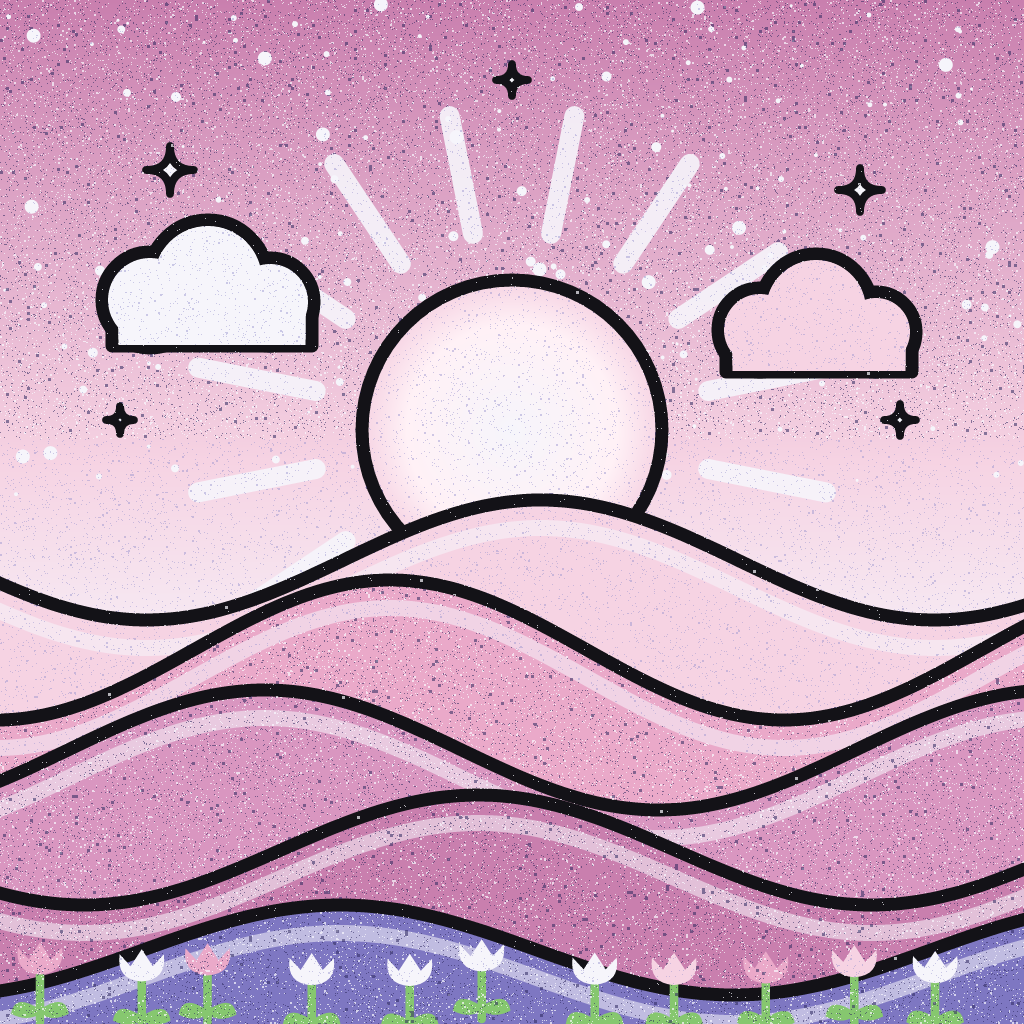
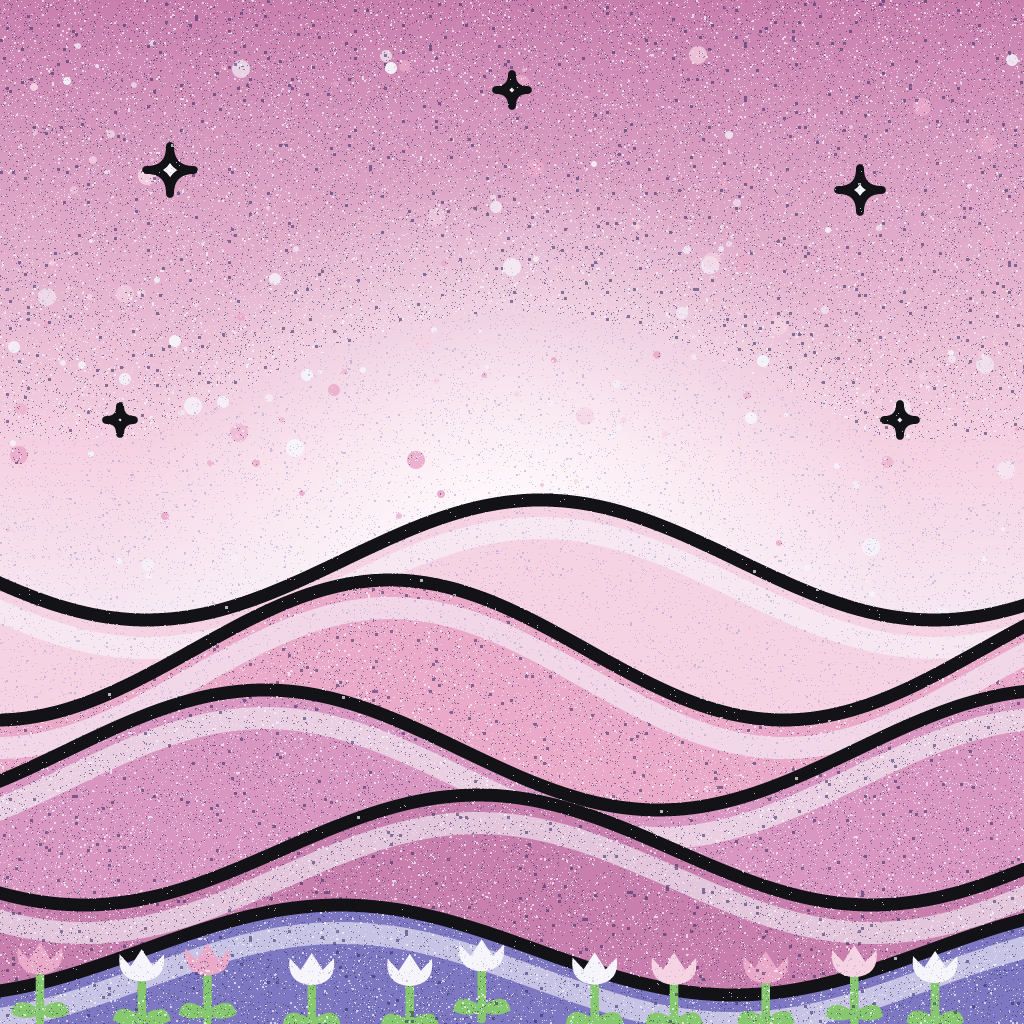
Give Tide and Pink Haze their own picture instead of another disc
Five of the eight cards had a moon or sun disc, and Velvet and Tide sat
side by side with almost the same full moon. Tide now shows a tide gauge
in the rising and ebbing water; Pink Haze loses its sun, rays and clouds
and becomes layered hills in a soft mist. The other six pictures are
byte for byte unchanged.

diff --git a/tools/images/meditation_images.py b/tools/images/meditation_images.py
@@ -127,14 +127,18 @@ b += f'<path d="M300 820 C400 800 624 800 724 820" stroke="{K}" stroke-width="{S
 b += f'<circle cx="512" cy="820" r="16" fill="{L1}" stroke="{K}" stroke-width="{SW*0.6}"/>'
 scenes["velvet"] = svg(b, defs)
 
-# 2. tide — the moon pulling curling waves
-defs = radial("g", [(0, W), (0.25, L1), (1, D)], cy="18%", r="85%")
-b = f'<rect width="1024" height="1024" fill="url(#g)"/>' + stars(160, (0, 0, 1024, 520), 12)
-b += f'<circle cx="512" cy="200" r="120" fill="{W}" stroke="{K}" stroke-width="{SW}"/>'
-b += f'<circle cx="470" cy="175" r="18" fill="{L1}"/><circle cx="555" cy="235" r="12" fill="{L1}"/>'
-for rr in (165, 215):
-    b += f'<circle cx="512" cy="200" r="{rr}" fill="none" stroke="{W}" stroke-width="7" stroke-dasharray="4 22"/>'
-bands = [(470, 40, 0.0, L1), (580, 46, 1.3, L2), (700, 52, 2.4, L3), (830, 58, 0.7, D)]
+# 2. tide — a tide gauge standing in the rising and ebbing water
+defs = linear("g", [(0, L3), (0.55, L1), (0.8, W)]) + linear("post", [(0, L2), (1, L3)], vertical=False)
+b = f'<rect width="1024" height="1024" fill="url(#g)"/>' + stars(90, (0, 0, 1024, 420), 12)
+for y in (330, 500):
+    b += f'<path d="M150 {y} L874 {y}" stroke="{W}" stroke-width="7" fill="none" stroke-dasharray="4 22" stroke-linecap="round"/>'
+b += f'<rect x="478" y="250" width="68" height="660" rx="14" fill="url(#post)" stroke="{K}" stroke-width="{SW}"/>'
+for i, y in enumerate(range(290, 600, 40)):
+    w = 34 if i % 2 == 0 else 20
+    b += f'<path d="M478 {y} L{478+w} {y}" stroke="{K}" stroke-width="6"/>'
+b += f'<path d="M690 350 L690 480 M662 380 L690 346 L718 380 M662 450 L690 484 L718 450" stroke="{K}" stroke-width="12" fill="none"/>'
+b += sparkle(300, 240, 22) + sparkle(780, 230, 24) + sparkle(200, 420, 14) + sparkle(860, 420, 16)
+bands = [(600, 40, 0.0, L1), (700, 46, 1.3, L2), (800, 52, 2.4, L3), (900, 58, 0.7, D)]
 for y, A, ph, fill in bands:
     pts = [(x, y + A * math.sin(x / 1024 * 2 * math.pi * 2 + ph)) for x in range(-20, 1050, 6)]
     d = f"M-20 1060 " + " ".join(f"L{x} {yy:.1f}" for x, yy in pts) + " L1050 1060Z"
@@ -306,22 +310,25 @@ for i in range(9):
         b += f'<path d="M{x-25} {y} L{x} {y+26} L{x+25} {y}" stroke="{L2}" stroke-width="8" fill="none"/>'
 scenes["night_rain"] = svg(b, defs)
 
-# 5. pink-haze — layered misty pink hills under a soft sun
-defs = (linear("g", [(0, P3), (0.45, P1), (0.7, W)]) + radial("sun", [(0, W), (0.7, "#fff1f6"), (1, P1)]))
-b = f'<rect width="1024" height="1024" fill="url(#g)"/>' + stars(150, (0, 0, 1024, 500), 49)
-b += rays(512, 430, 16, 200, 320, 20, W, opacity=0.9)
-b += f'<circle cx="512" cy="430" r="150" fill="url(#sun)" stroke="{K}" stroke-width="{SW}"/>'
-for sx, sy, s in [(170, 170, 24), (860, 190, 22), (512, 80, 16), (120, 420, 14), (900, 420, 16)]:
-    b += sparkle(sx, sy, s)
-b += cloud([(150, 300, 48), (208, 280, 60), (270, 302, 44)], W, (112, 302, 200, 44))
-b += cloud([(760, 330, 42), (816, 310, 56), (876, 332, 40)], P1, (726, 332, 186, 40))
+# 5. pink-haze — layered pink hills dissolving into a soft mist
+defs = (linear("g", [(0, P3), (0.45, P1), (0.7, W)]) +
+        '<radialGradient id="glow" cx="50%" cy="50%" r="50%"><stop offset="0" stop-color="#ffffff" stop-opacity="0.95"/>'
+        '<stop offset="1" stop-color="#ffffff" stop-opacity="0"/></radialGradient>')
+b = f'<rect width="1024" height="1024" fill="url(#g)"/>'
+b += f'<circle cx="512" cy="560" r="400" fill="url(#glow)"/>'
+r = random.Random(49)
+for _ in range(190):
+    b += (f'<circle cx="{r.uniform(0, 1024):.0f}" cy="{r.uniform(40, 640):.0f}" r="{r.choice([2, 3, 3, 4, 6, 9])}" '
+          f'fill="{r.choice([W, W, P1, P2])}" opacity="{r.uniform(0.5, 0.95):.2f}"/>')
+for sx, sy, s_ in [(170, 170, 24), (860, 190, 22), (512, 90, 16), (120, 420, 14), (900, 420, 16)]:
+    b += sparkle(sx, sy, s_)
 layers = [(560, 60, 0.4, P1), (650, 70, 1.6, P2), (750, 60, 2.6, "#d996c0"), (850, 55, 0.9, P3), (950, 45, 2.0, L3)]
 for i, (y, A, ph, fill) in enumerate(layers):
     pts = [(x, y + A * math.sin(x / 1024 * 2 * math.pi * 1.3 + ph)) for x in range(-20, 1050, 8)]
     d = "M-20 1060 " + " ".join(f"L{x} {yy:.1f}" for x, yy in pts) + " L1050 1060Z"
     b += f'<path d="{d}" fill="{fill}" stroke="{K}" stroke-width="{SW}"/>'
     mist = " ".join(f"L{x} {yy+28:.1f}" for x, yy in pts)
-    b += f'<path d="M-20 {pts[0][1]+28:.1f} {mist}" stroke="{W}" stroke-width="16" fill="none" opacity="0.55"/>'
+    b += f'<path d="M-20 {pts[0][1]+28:.1f} {mist}" stroke="{W}" stroke-width="22" fill="none" opacity="0.6"/>'
 r = random.Random(50)
 for x in range(40, 1024, 90):
     b += tulip(x + r.uniform(-15, 15), 975 + r.uniform(-8, 8), 0.85, r.choice([P1, W, P2]))
